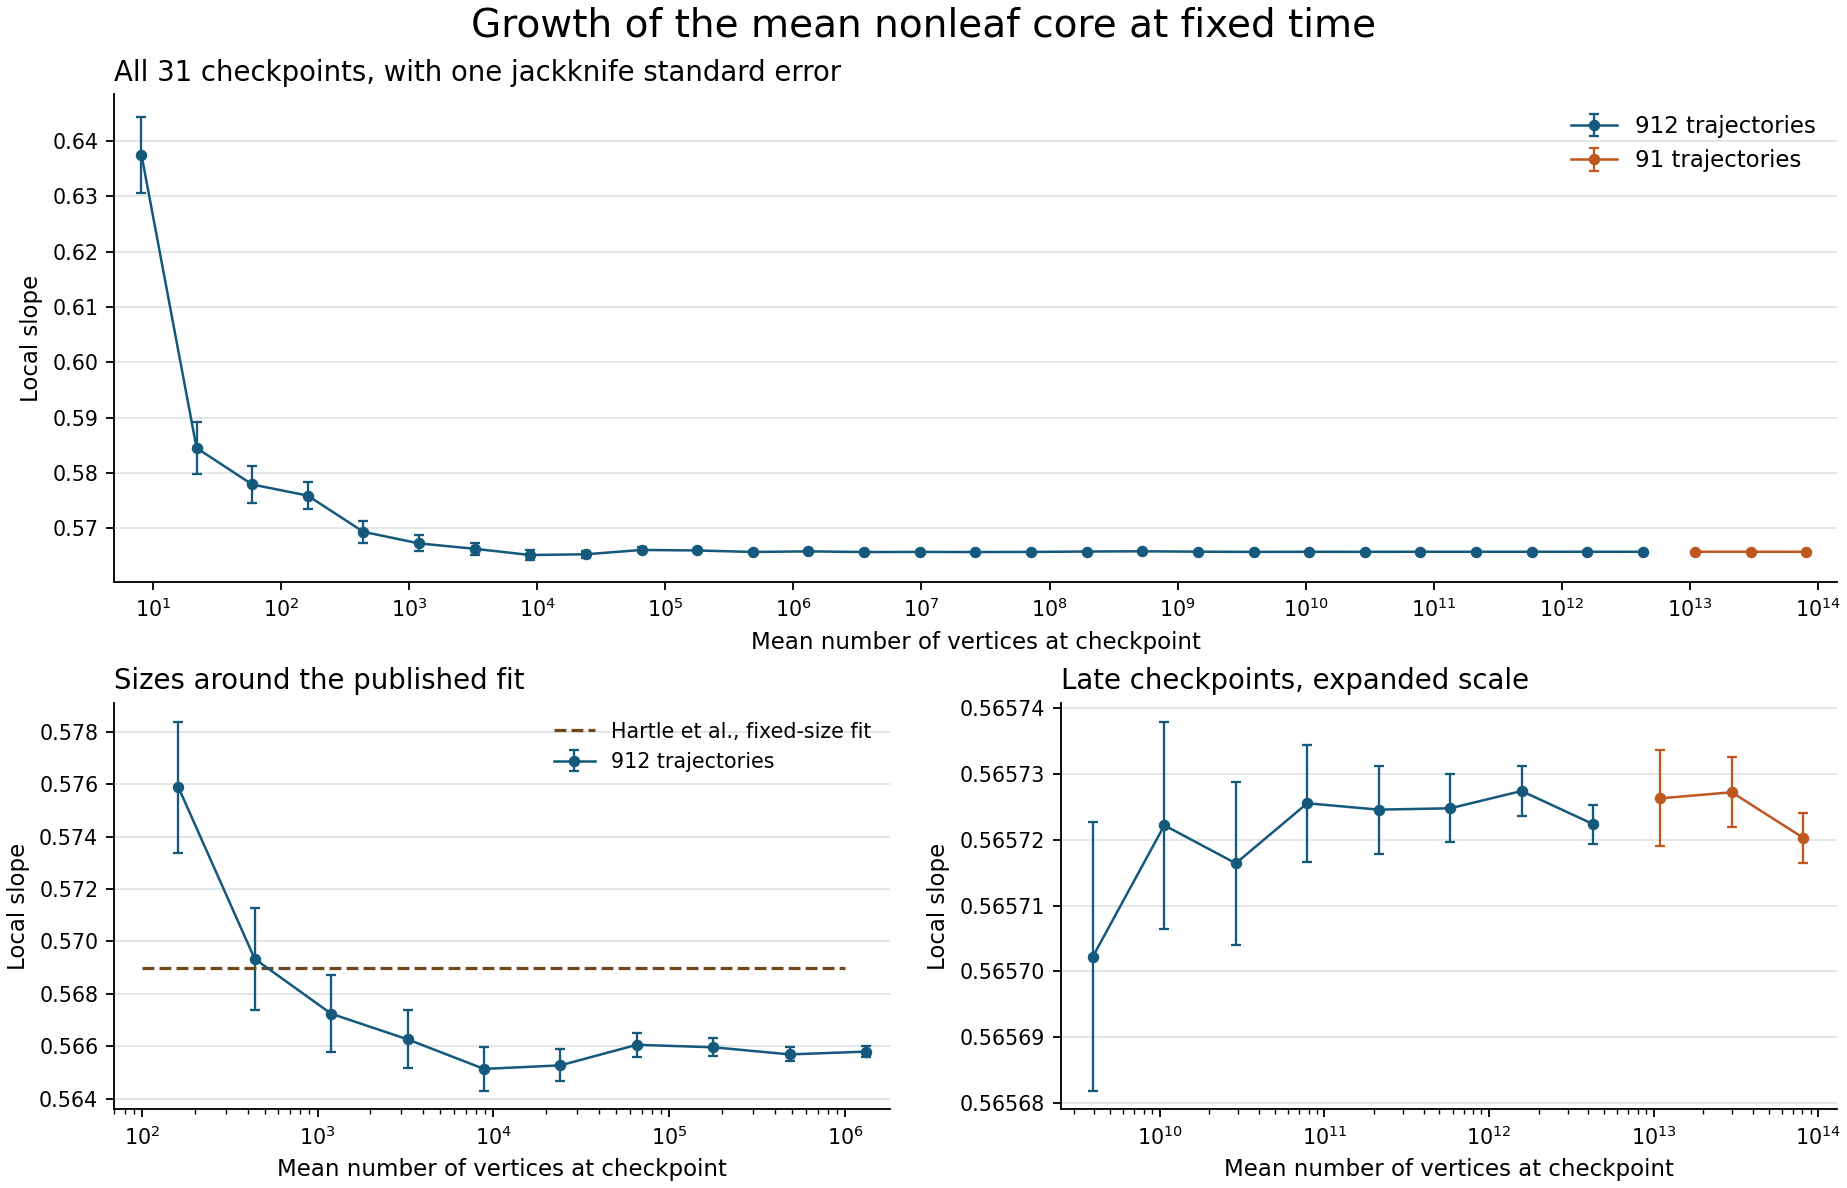
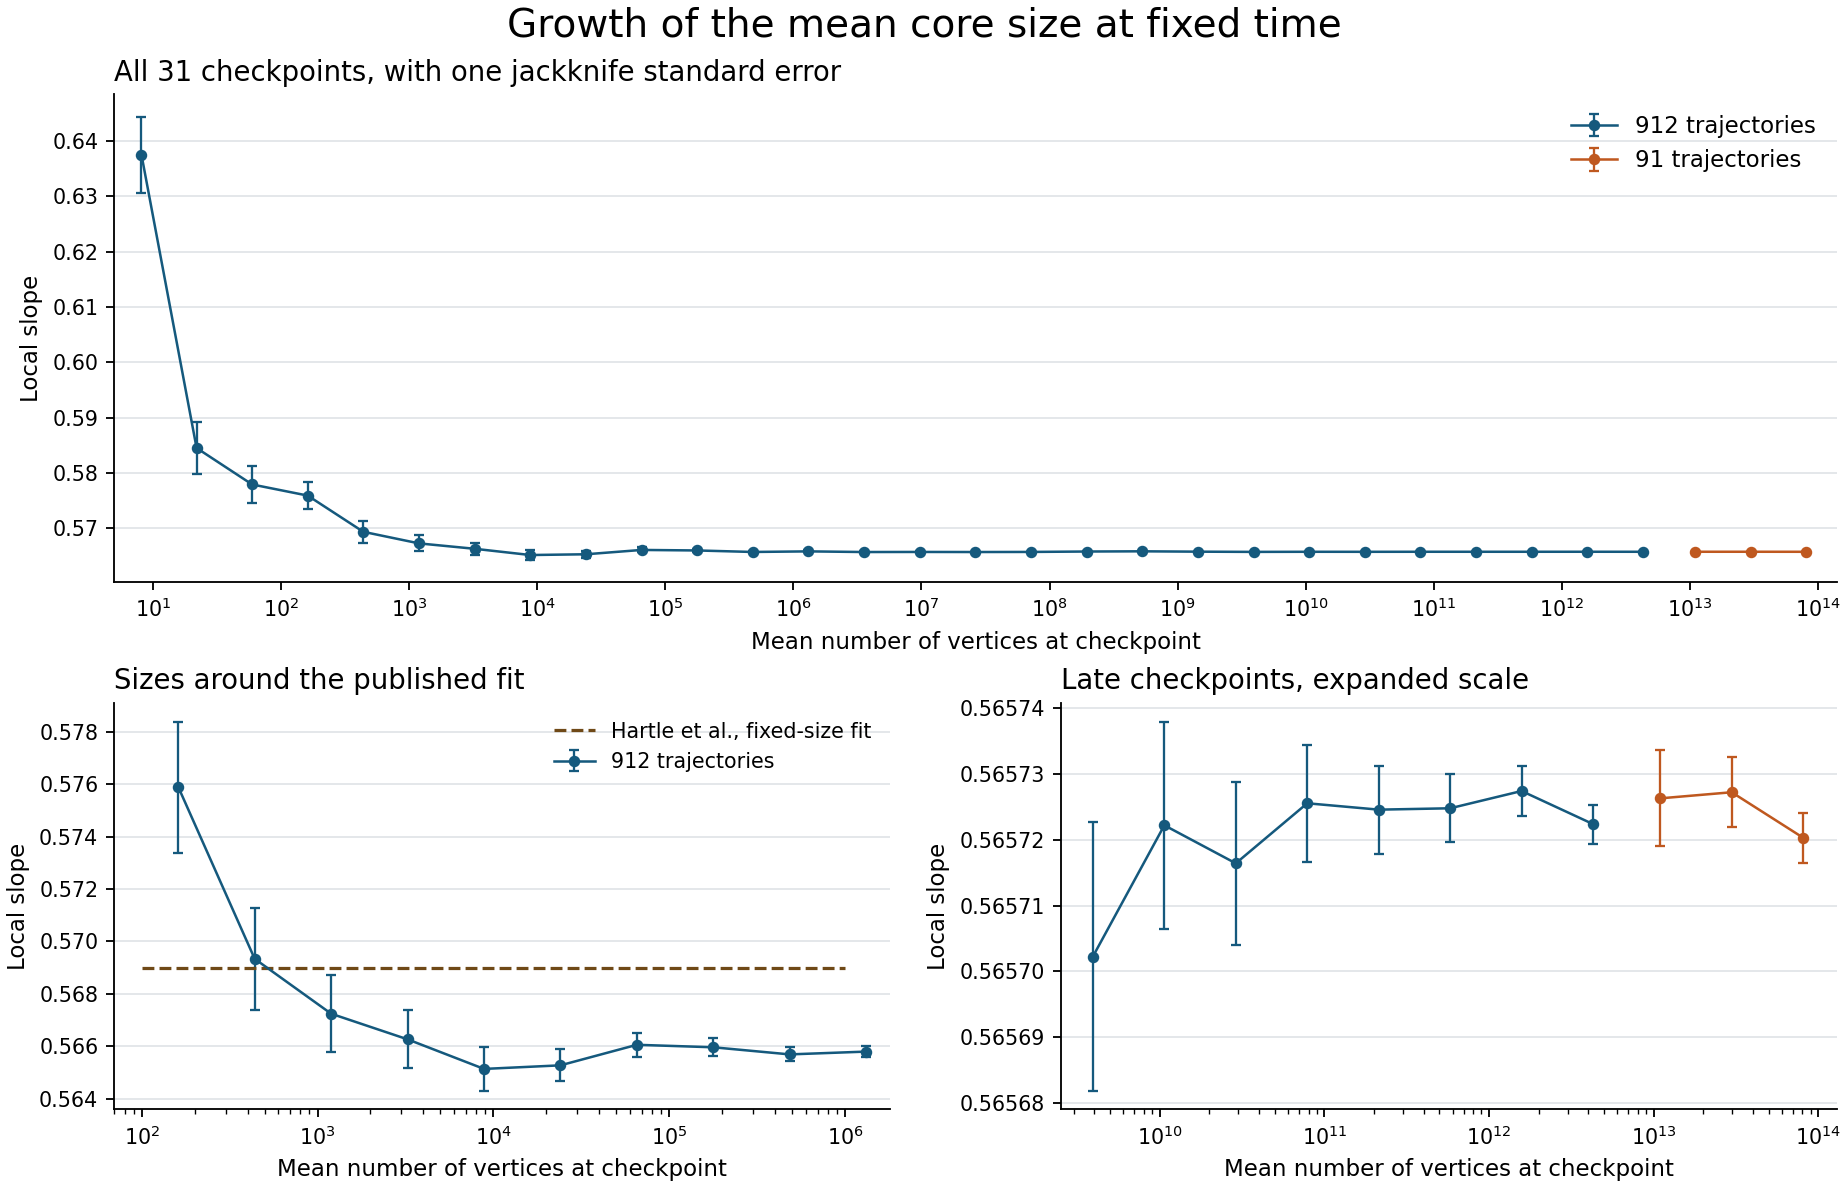
Clarify the figure title

Changed region(s): [[0.2469, 0.0, 0.7407, 0.0311]]

diff --git a/simulations/local_slopes.py b/simulations/local_slopes.py
@@ -77,7 +77,7 @@ def plot(rows, filename):
     full = fig.add_subplot(grid[0, :])
     small = fig.add_subplot(grid[1, 0])
     late = fig.add_subplot(grid[1, 1])
-    fig.suptitle("Growth of the mean nonleaf core at fixed time", fontsize=17)
+    fig.suptitle("Growth of the mean core size at fixed time", fontsize=17)
 
     for ax, selected in [(full, rows), (small, rows[3:13]), (late, rows[20:])]:
         ax.set_xscale("log")
